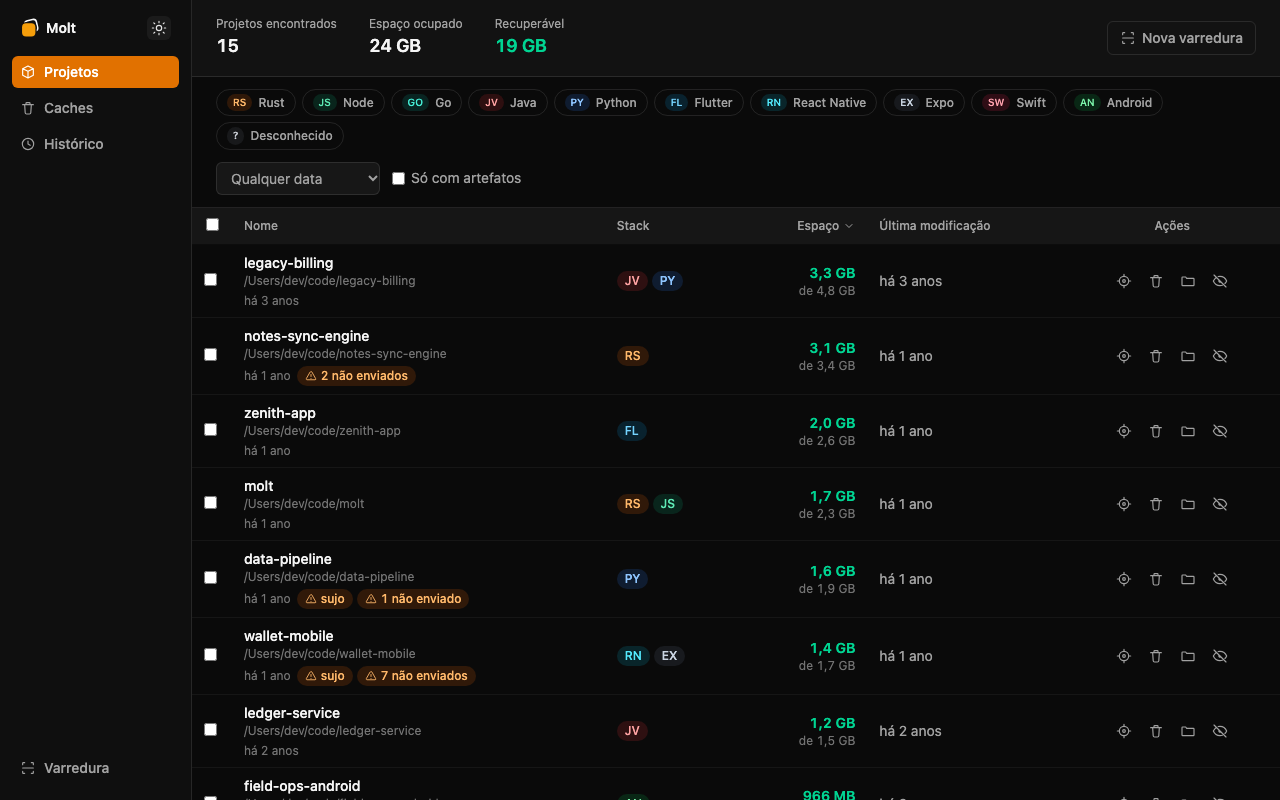
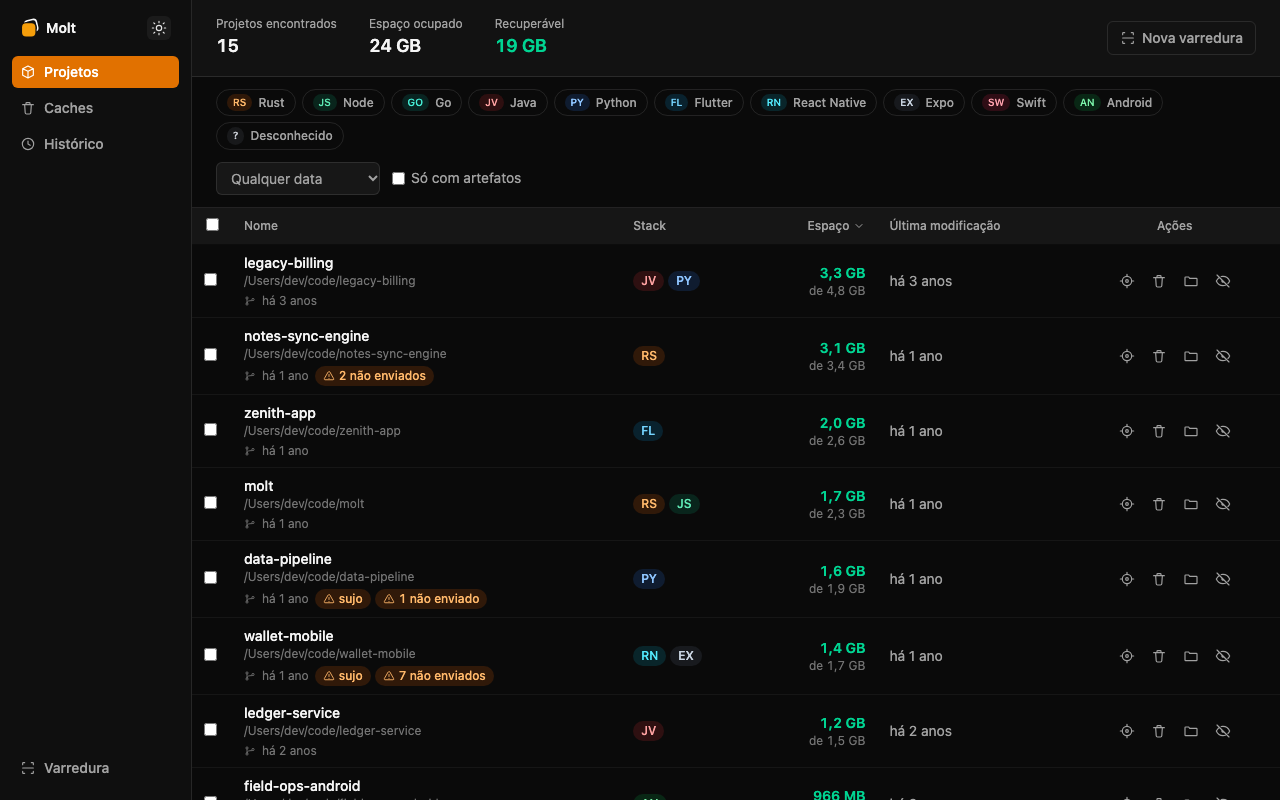
fix(ui): adiciona ícone de branch na linha de estado git da tabela de projetos
Depois do glow up que moveu data do último commit e badges (sujo/não
enviados) para dentro da célula Nome, ficou ambíguo que aquela linha é
sobre git. Adiciona o GitBranchIcon (já existia no projeto, sem uso)
antes da data, com title explicando a branch.

diff --git a/src/components/projects/ProjectsTable.tsx b/src/components/projects/ProjectsTable.tsx
@@ -2,7 +2,7 @@ import type { Project } from "../../types";
 import { formatBytes, formatRelativeDate } from "../../lib/format";
 import type { ProjectSortKey, SortDirection } from "../../lib/projects";
 import { useAppStore } from "../../store/useAppStore";
-import { TargetIcon, ChevronDownIcon, ChevronUpIcon, EyeOffIcon, FolderIcon, TrashIcon } from "../icons/Icons";
+import { TargetIcon, ChevronDownIcon, ChevronUpIcon, EyeOffIcon, FolderIcon, GitBranchIcon, TrashIcon } from "../icons/Icons";
 import { revealInFinder } from "../../api/client";
 import { GitBadges } from "./GitBadges";
 import { StackBadge } from "./StackBadge";
@@ -89,7 +89,11 @@ export function ProjectsTable({ projects, onCleanArtifacts, onTrashProject, onIg
                 {project.path}
               </p>
               {project.git && (
-                <div className="mt-1 flex flex-wrap items-center gap-1.5">
+                <div
+                  className="mt-1 flex flex-wrap items-center gap-1.5"
+                  title={`Versionamento git${project.git.branch ? ` · branch ${project.git.branch}` : ""}`}
+                >
+                  <GitBranchIcon className="h-3 w-3 shrink-0 text-neutral-400 dark:text-neutral-500" />
                   <span className="text-xs text-neutral-500 dark:text-neutral-500">
                     {project.git.lastCommitAt !== null ? formatRelativeDate(project.git.lastCommitAt) : "sem commits"}
                   </span>
